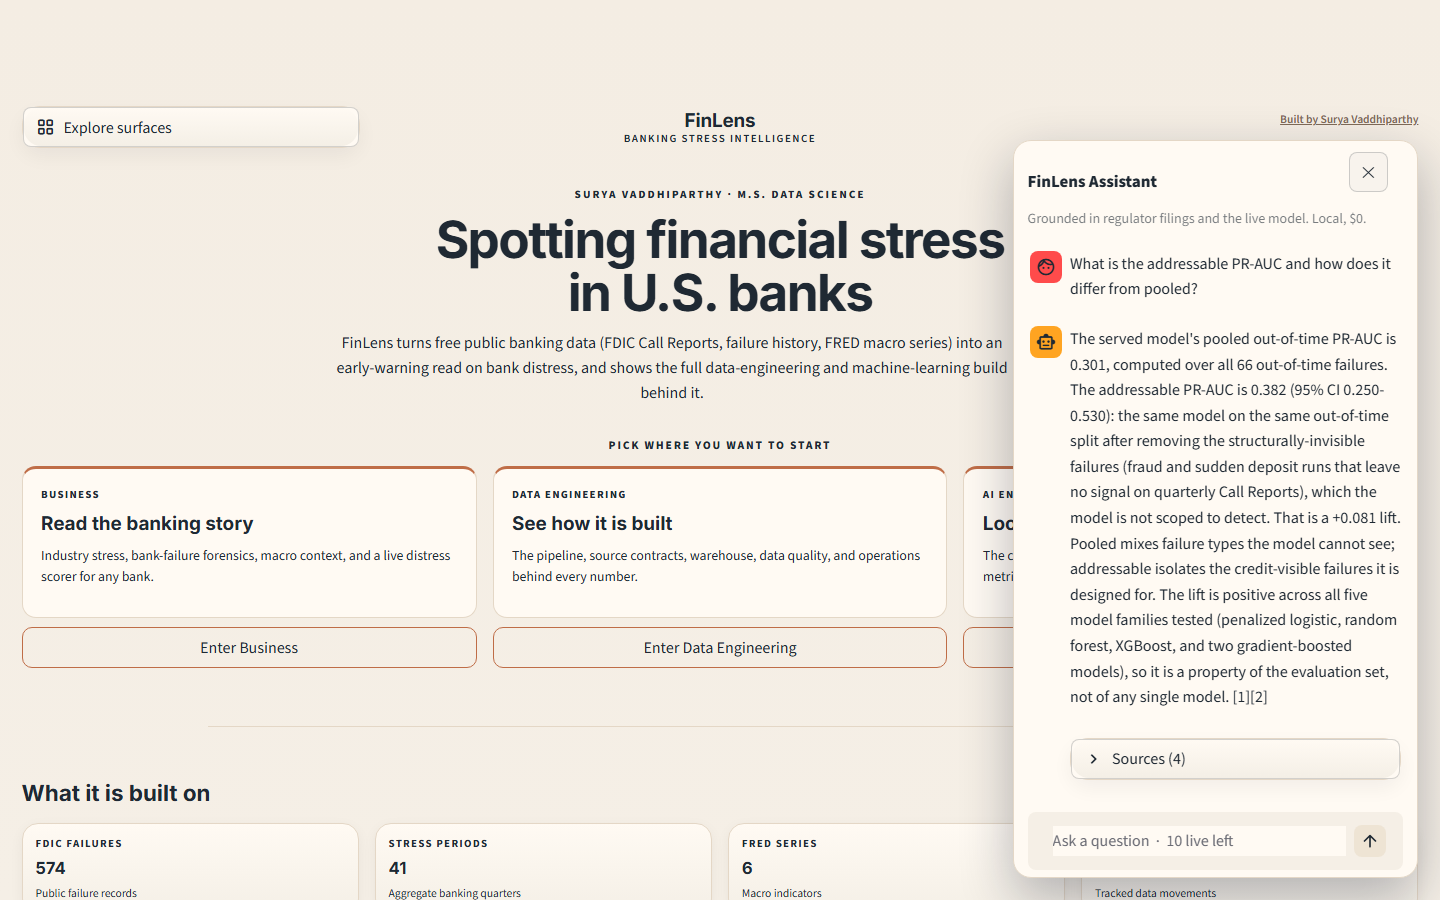
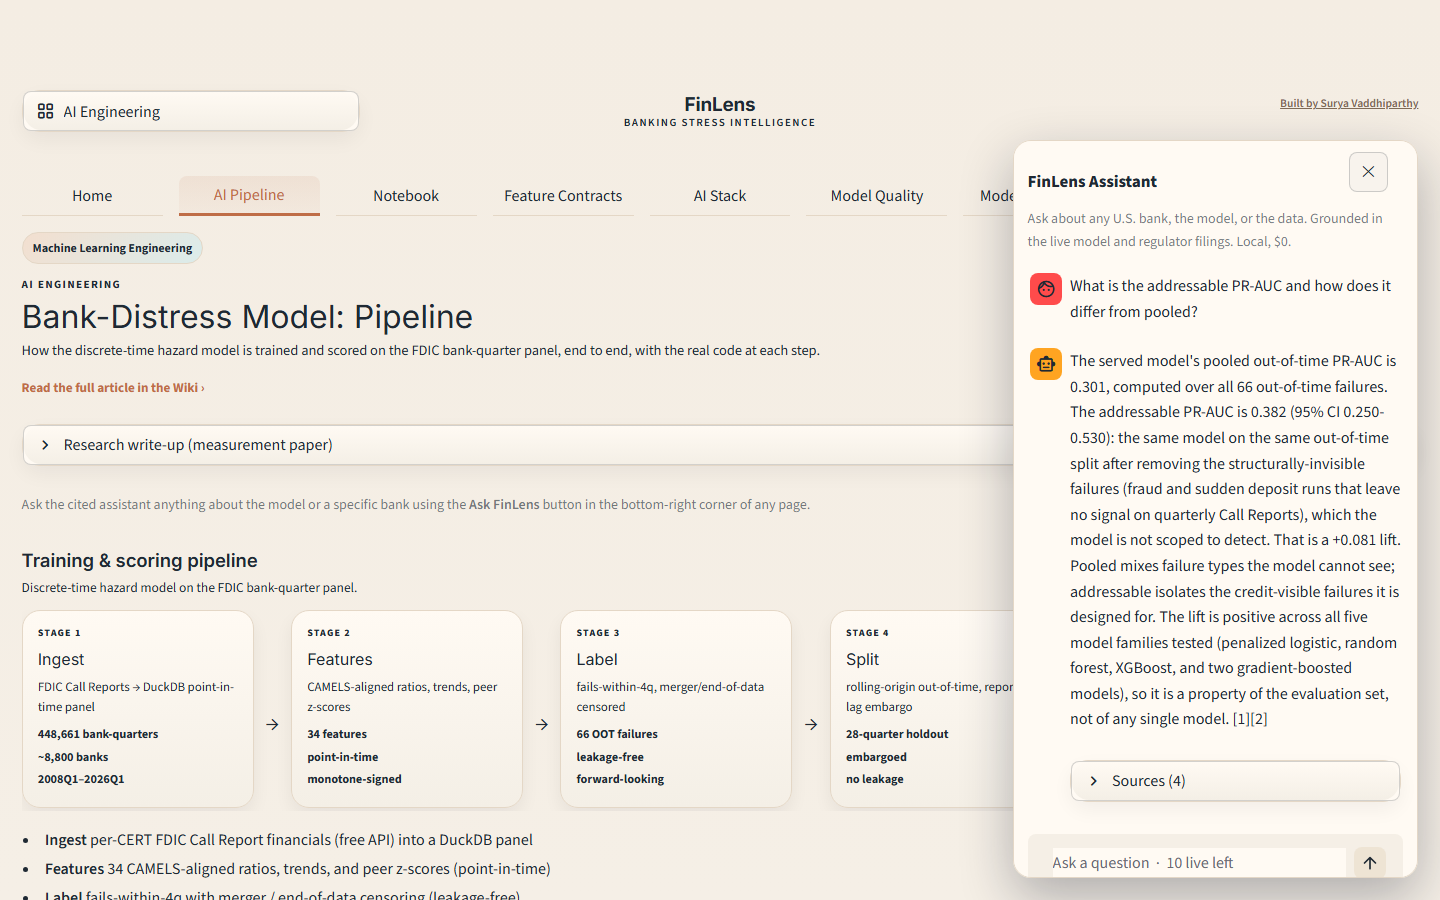
Assistant: handle ANY bank by name, route to report; failure artifacts only if it failed
The chat only knew the ~19 failed banks, so "What happened to Comerica Bank?" went unrecognized,
retrieved unrelated failure reports, and hallucinated "no information." Now:
- Bank detection resolves ANY of the 8,803 panel banks by name (longest-match) + short forms.
- Named-bank questions get a fast, deterministic, model-grounded answer (no LLM): operating
  banks are stated as operating with their live distress estimate + top driver; banks that
  actually failed get the regulator cause + citation. Always offers the full report.
- Only failed banks dump failure artifacts (cause/quote/source); operating banks get none.
- Cause enum prettified; widget examples showcase an operating-bank query; example clicks are
  free (don't spend the live budget). New E2E asserts the Comerica case. All chat tests green.

diff --git a/rag/graph.py b/rag/graph.py
@@ -46,33 +46,49 @@ def _collection():
     return client.get_collection(COLLECTION, embedding_function=ef)
 
 
-def _bank_lookup() -> dict:
-    """lowercase name fragments -> (cert, canonical name), incl common short forms."""
-    from finlens_ml.failure_cause_labels import load_failure_causes
-    m = {}
-    for _, r in load_failure_causes().iterrows():
-        m[r["name"].lower()] = (int(r["cert"]), r["name"])
-    m.update({
-        "svb": (24735, "Silicon Valley Bank"),
-        "silicon valley": (24735, "Silicon Valley Bank"),
-        "first republic": (59017, "First Republic Bank"),
-        "signature": (57053, "Signature Bank"),
-        "republic first": (27332, "Republic First Bank"),
-        "pulaski": (28611, "Pulaski Savings Bank"),
-        "heartland": (25851, "Heartland Tri-State Bank"),
-    })
-    return m
+from functools import lru_cache
+
+# Common short forms -> CERT, so colloquial names resolve to the right institution.
+_SHORT_FORMS = {
+    "svb": 24735, "silicon valley": 24735, "first republic": 59017,
+    "signature bank": 57053, "republic first": 27332, "pulaski": 28611,
+    "heartland tri-state": 25851,
+}
+
+
+@lru_cache(maxsize=1)
+def _bank_index() -> list:
+    """Every bank in the panel as (name_lower, cert, display_name), longest name first, so a
+    question can name ANY institution (not just the failures) and be resolved by longest match."""
+    from finlens_ml import scenario
+    items = []
+    for _, r in scenario.live_bank_directory().iterrows():
+        nm = str(r.get("bank_name") or "").strip()
+        # multi-word, reasonably specific names only, to avoid matching generic words
+        if len(nm) >= 7 and " " in nm:
+            items.append((nm.lower(), int(r["cert"]), nm))
+    items.sort(key=lambda x: len(x[0]), reverse=True)
+    return items
+
+
+@lru_cache(maxsize=1)
+def _cert_to_name() -> dict:
+    return {cert: disp for _nl, cert, disp in _bank_index()}
+
+
+def _detect_bank(question: str):
+    """Resolve any bank the question names -> (cert, display_name), or None."""
+    q = question.lower()
+    for frag, cert in _SHORT_FORMS.items():
+        if frag in q:
+            return cert, _cert_to_name().get(cert, frag.title())
+    for name_lower, cert, disp in _bank_index():  # longest names first
+        if name_lower in q:
+            return cert, disp
+    return None
 
 
 # ---- nodes ----
-
-def _detect_bank(question: str):
-    q = question.lower()
-    for frag, (cert, name) in _bank_lookup().items():
-        if frag in q:
-            return cert, name
-    return None
-
 
 def retrieve(state: State) -> State:
     col = _collection()
@@ -229,7 +245,74 @@ def _cited_sources(answer: str, doc_sources: list, all_sources: list) -> list:
     return cited or list(all_sources)
 
 
+def _failure_record(cert: int):
+    """Return the regulator failure-cause row for a CERT, or None if the bank did not fail."""
+    try:
+        from finlens_ml.failure_cause_labels import load_failure_causes
+        df = load_failure_causes()
+        sub = df[df["cert"] == cert]
+        return None if sub.empty else sub.iloc[0].to_dict()
+    except Exception:  # noqa: BLE001
+        return None
+
+
+def _bank_answer(question: str, cert: int, name: str) -> dict:
+    """Deterministic, model-grounded answer for ANY named bank. Fast (no LLM): scores the bank
+    live; for a bank that actually failed it adds the regulator cause + citation, otherwise it
+    states plainly that the institution is operating. Always routes to the full report."""
+    from finlens_ml import scenario
+    from finlens_ml.scenario import humanize_feature
+
+    rec = scenario.latest_row_for_cert(cert)
+    if not rec:
+        return {"question": question, "bank_name": name, "bank_cert": cert, "used_llm": False,
+                "citations": [], "retrieved": [],
+                "answer": f"{name} (FDIC CERT {cert}) is in the directory but has no scorable "
+                          "filing on record."}
+    scored = scenario.score_features(rec["features"])
+    prob, thr = scored["probability"], scored["threshold"]
+    state = rec.get("state") or "—"
+    quarter = rec.get("quarter")
+    model_pred = {"quarter": quarter, "probability": prob, "threshold": thr}
+    top = next((r for r in scored.get("reasons", []) if r.get("shap") is not None), None)
+    driver = (f" The largest model risk driver is {humanize_feature(top['feature'])} "
+              f"({'raising' if top['shap'] > 0 else 'lowering'} estimated risk)." if top else "")
+
+    fail = _failure_record(cert)
+    citations = []
+    if fail:
+        cause = str(fail.get("cause", "—")).replace("_", "/")
+        year = fail.get("failure_year", "—")
+        quote = (fail.get("quote") or "").strip()
+        src = fail.get("source_url") or ""
+        if src:
+            citations = [src]
+        answer = (
+            f"{name} (FDIC CERT {cert}, {state}) failed in {year}. Regulator-determined primary "
+            f"cause: {cause}." + (f' "{quote}"' if quote else "") +
+            f" The model's last pre-failure score, as of {quarter}, was {prob:.2%} against the "
+            f"{thr:.0%} review threshold; a low score on a rate/liquidity or fraud failure is "
+            "expected, since those leave little signal on quarterly Call Reports (see the "
+            "failure-type decomposition).")
+    else:
+        rel = "above" if prob >= thr else "below"
+        answer = (
+            f"{name} (FDIC CERT {cert}, {state}) is an operating institution: it has not failed "
+            f"and has no failure on record. As of {quarter}, the model estimates a {prob:.2%} "
+            f"four-quarter distress probability, {rel} the {thr:.0%} review threshold. Bank "
+            "failure is a sub-1% base-rate event, so this is a screening estimate, not a "
+            "forecast of failure." + driver)
+    answer += " Open the full report below for the complete assessment."
+    return {"question": question, "answer": answer, "citations": citations, "retrieved": [],
+            "model_pred": model_pred, "used_llm": False, "bank_name": name, "bank_cert": cert}
+
+
 def answer_question(question: str) -> dict:
+    # A question that names any bank gets a fast, deterministic, model-grounded answer (and the
+    # report offer). Only open-ended/methodology questions go through the retrieval + LLM path.
+    hit = _detect_bank(question)
+    if hit:
+        return _bank_answer(question, hit[0], hit[1])
     global _GRAPH
     if _GRAPH is None:
         _GRAPH = _build_graph()

diff --git a/streamlit_app/lib/chat_widget.py b/streamlit_app/lib/chat_widget.py
@@ -18,9 +18,9 @@ _PROJECT_ROOT = next(
 )
 
 _EXAMPLES = [
+    "What happened to Comerica Bank?",
     "Why did Silicon Valley Bank fail?",
     "What is the addressable PR-AUC and how does it differ from pooled?",
-    "Did the GRU sequence model beat the gradient-boosted model?",
 ]
 
 
@@ -38,11 +38,14 @@ def _demo_cache() -> dict:
 
 
 def _ask(question: str, *, example: bool) -> dict:
-    """Cached questions answer instantly and do not count against the live budget."""
+    """Starter examples are free (cached or run without spending budget); user-typed questions
+    count against the per-session live budget. Bank questions answer instantly (deterministic,
+    model-grounded); only open-ended questions hit the local LLM."""
     demo = _demo_cache()
-    if example and question in demo:
+    if question in demo:
         return {**demo[question], "question": question}
-    st.session_state["chat_live_count"] = st.session_state.get("chat_live_count", 0) + 1
+    if not example:
+        st.session_state["chat_live_count"] = st.session_state.get("chat_live_count", 0) + 1
     try:
         return _backend()(question)
     except Exception as exc:  # noqa: BLE001
@@ -98,7 +101,8 @@ def render_chat_widget() -> None:
         if head_r.button("✕", key="chat_close_btn", help="Close"):
             ss.chat_open = False
             st.rerun()
-        st.caption("Grounded in regulator filings and the live model. Local, $0.")
+        st.caption("Ask about any U.S. bank, the model, or the data. Grounded in the live model "
+                   "and regulator filings. Local, $0.")
 
         for i, msg in enumerate(ss.chat_history):
             with st.chat_message(msg["role"]):
